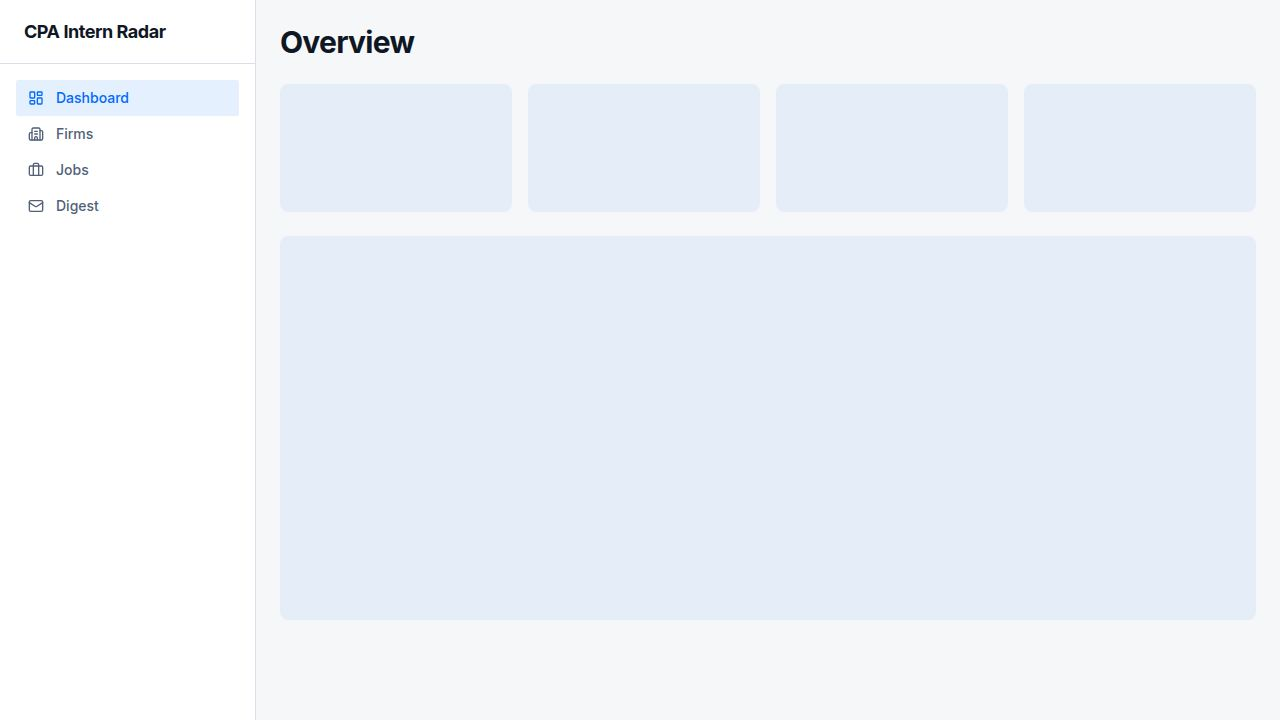
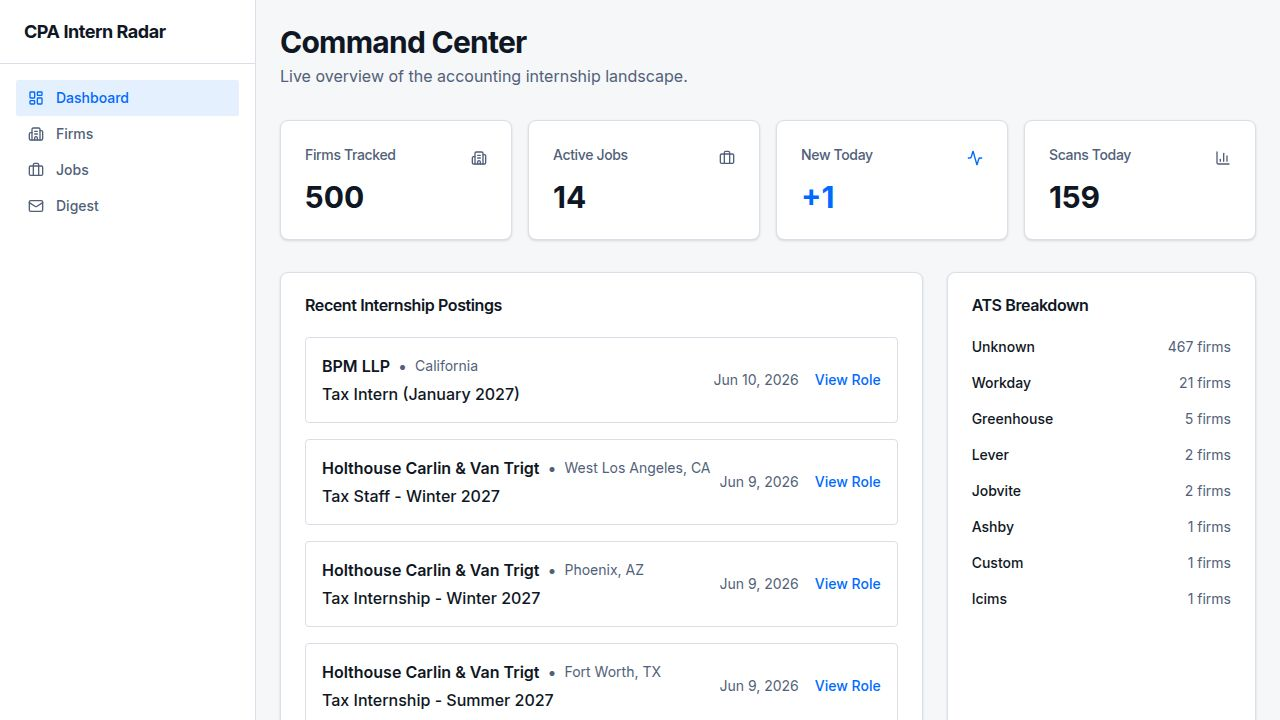
Add functionality to detect ATS for multiple firms concurrently
Introduces a new API endpoint `/scrape/detect-ats` for batch ATS detection with a configurable concurrency limit. Updates the frontend to include a "Detect ATS (Next 20)" button that utilizes this new endpoint and displays progress and results. Fixes a type error in `useGetFirm` by correctly passing the `queryKey`. Generates necessary types and schemas for the new functionality.

Replit-Commit-Author: Agent
Replit-Commit-Session-Id: ef49189c-4cf8-4fb7-b80d-d047ab9adbdf
Replit-Commit-Checkpoint-Type: full_checkpoint
Replit-Commit-Event-Id: f3da0b84-096c-4e49-be1a-548264e2688c
Replit-Commit-Screenshot-Url: https://storage.googleapis.com/screenshot-production-us-central1/ff5c65ff-d0aa-4d38-b528-99794d8bef2b/ef49189c-4cf8-4fb7-b80d-d047ab9adbdf/wA35BZl
Replit-Helium-Checkpoint-Created: true

diff --git a/artifacts/api-server/src/routes/scrape.ts b/artifacts/api-server/src/routes/scrape.ts
@@ -1,8 +1,23 @@
 import { Router, type IRouter } from "express";
-import { eq } from "drizzle-orm";
+import { eq, and, inArray, sql } from "drizzle-orm";
 import { db, firmsTable, jobsTable } from "@workspace/db";
 import { ScrapeFirmParams } from "@workspace/api-zod";
 import { scrapeByAts, detectAts, type AtsType } from "../lib/ats-scrapers";
+
+async function runConcurrent<T>(
+  items: T[],
+  fn: (item: T) => Promise<void>,
+  concurrency: number,
+): Promise<void> {
+  const queue = [...items];
+  const workers = Array.from({ length: Math.min(concurrency, items.length) }, async () => {
+    while (queue.length > 0) {
+      const item = queue.shift()!;
+      await fn(item);
+    }
+  });
+  await Promise.all(workers);
+}
 
 const router: IRouter = Router();
 
@@ -88,6 +103,58 @@ async function scrapeOneFirm(firm: typeof firmsTable.$inferSelect): Promise<{
     };
   }
 }
+
+router.post("/scrape/detect-ats", async (req, res): Promise<void> => {
+  const rawLimit = parseInt(String(req.query.limit ?? "20"), 10);
+  const limit = Math.min(isNaN(rawLimit) ? 20 : rawLimit, 50);
+
+  const unknownFirms = await db
+    .select()
+    .from(firmsTable)
+    .where(eq(firmsTable.atsType, "unknown"))
+    .orderBy(firmsTable.rank)
+    .limit(limit);
+
+  req.log.info({ count: unknownFirms.length }, "Starting batch ATS detection");
+
+  type DetectResult = { firmId: number; firmName: string; atsType: string; atsUrl: string | null; success: boolean };
+  const results: DetectResult[] = [];
+
+  await runConcurrent(
+    unknownFirms,
+    async (firm) => {
+      try {
+        const detected = await detectAts(firm.careersUrl);
+        const resolved = detected.atsType !== "unknown" && detected.atsType !== "custom";
+        if (resolved) {
+          await db
+            .update(firmsTable)
+            .set({ atsType: detected.atsType, atsUrl: detected.atsUrl })
+            .where(eq(firmsTable.id, firm.id));
+        }
+        results.push({ firmId: firm.id, firmName: firm.name, atsType: detected.atsType, atsUrl: detected.atsUrl, success: resolved });
+      } catch {
+        results.push({ firmId: firm.id, firmName: firm.name, atsType: "unknown", atsUrl: null, success: false });
+      }
+    },
+    3,
+  );
+
+  const [{ remaining }] = await db
+    .select({ remaining: sql<number>`count(*)` })
+    .from(firmsTable)
+    .where(eq(firmsTable.atsType, "unknown"));
+
+  const detected = results.filter((r) => r.success).length;
+  req.log.info({ processed: results.length, detected }, "Batch ATS detection complete");
+
+  res.json({
+    processed: results.length,
+    detected,
+    unknownRemaining: Number(remaining),
+    results,
+  });
+});
 
 router.post("/scrape/run", async (req, res): Promise<void> => {
   const startedAt = new Date();

diff --git a/artifacts/cpa-intern-radar/src/pages/firms.tsx b/artifacts/cpa-intern-radar/src/pages/firms.tsx
@@ -1,11 +1,11 @@
 import { useState, useEffect } from "react";
-import { useListFirms, useRunScrape, useScrapeFirm, getListFirmsQueryKey, useDetectFirmAts, useCreateFirm, useUpdateFirm, useGetFirm } from "@workspace/api-client-react";
+import { useListFirms, useRunScrape, useScrapeFirm, getListFirmsQueryKey, useDetectFirmAts, useCreateFirm, useUpdateFirm, useGetFirm, useDetectAts, getGetFirmQueryKey } from "@workspace/api-client-react";
 import { useQueryClient } from "@tanstack/react-query";
 import { Input } from "@/components/ui/input";
 import { Button } from "@/components/ui/button";
 import { Table, TableBody, TableCell, TableHead, TableHeader, TableRow } from "@/components/ui/table";
 import { AtsBadge } from "@/components/ats-badge";
-import { Search, RefreshCw, Loader2, Play, Plus, SearchCode, Edit } from "lucide-react";
+import { Search, RefreshCw, Loader2, Play, Plus, SearchCode, Edit, ScanSearch } from "lucide-react";
 import { format } from "date-fns";
 import { useToast } from "@/hooks/use-toast";
 import {
@@ -30,7 +30,7 @@ function FirmFormDialog({
   const updateFirm = useUpdateFirm();
 
   // Satisfy rule: Use all provided hooks
-  const { data: firm, isLoading: isFetching } = useGetFirm(firmId || 0, { query: { enabled: !!firmId } });
+  const { data: firm, isLoading: isFetching } = useGetFirm(firmId || 0, { query: { enabled: !!firmId, queryKey: getGetFirmQueryKey(firmId || 0) } });
 
   const [formData, setFormData] = useState({
     name: "",
@@ -143,6 +143,7 @@ export default function Firms() {
   const runScrape = useRunScrape();
   const scrapeFirm = useScrapeFirm();
   const detectAts = useDetectFirmAts();
+  const batchDetect = useDetectAts();
 
   const handleGlobalScrape = () => {
     runScrape.mutate(undefined, {
@@ -164,6 +165,21 @@ export default function Firms() {
       },
       onError: () => {
         toast({ title: `Error scraping ${name}`, variant: "destructive" });
+      }
+    });
+  };
+
+  const handleBatchDetect = () => {
+    batchDetect.mutate({ params: { limit: 20 } }, {
+      onSuccess: (data) => {
+        toast({
+          title: `ATS Detection Complete`,
+          description: `Processed ${data.processed} firms — identified ${data.detected}. ${data.unknownRemaining} still unknown.`,
+        });
+        queryClient.invalidateQueries({ queryKey: getListFirmsQueryKey() });
+      },
+      onError: () => {
+        toast({ title: "Batch ATS detection failed", variant: "destructive" });
       }
     });
   };
@@ -201,6 +217,10 @@ export default function Firms() {
               <FirmFormDialog firmId={editingFirmId} onClose={() => setIsDialogOpen(false)} />
             )}
           </Dialog>
+          <Button onClick={handleBatchDetect} disabled={batchDetect.isPending} variant="outline">
+            {batchDetect.isPending ? <Loader2 className="w-4 h-4 mr-2 animate-spin" /> : <ScanSearch className="w-4 h-4 mr-2" />}
+            {batchDetect.isPending ? "Detecting…" : "Detect ATS (Next 20)"}
+          </Button>
           <Button onClick={handleGlobalScrape} disabled={runScrape.isPending} variant="secondary">
             {runScrape.isPending ? <Loader2 className="w-4 h-4 mr-2 animate-spin" /> : <RefreshCw className="w-4 h-4 mr-2" />}
             Run Global Scrape